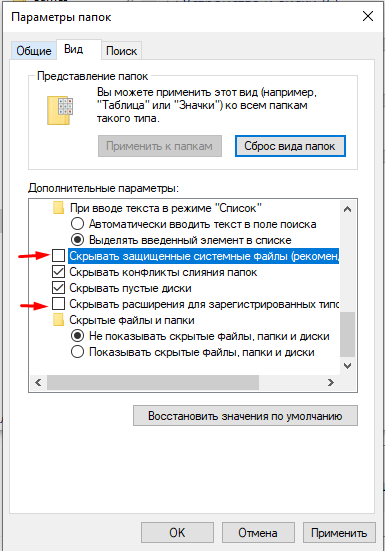
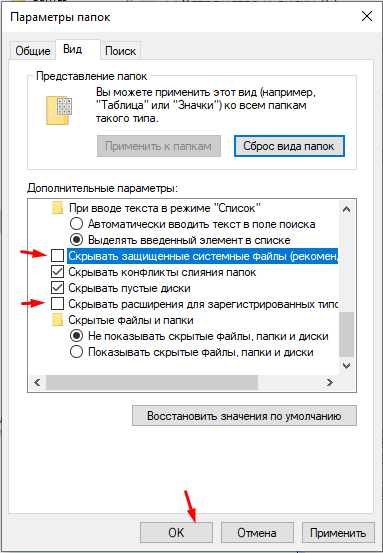
final

diff --git a/_pages/file-extensions-windows.md b/_pages/file-extensions-windows.md
@@ -14,6 +14,7 @@ author_profile: true
 1. Запустите **Проводник**, открыв любую папку, например папку вашей SD-карты
 1. Нажмите кнопку "**Вид**" в меню 
 1. Установите флажок "**Расширения имен файлов**"
+    * Для windows 7: Откройте меню **Пуск**, нажав на него, или с помощью клавиши **Windows**, введите в поле для поиска "**Параметры папок**" и выберите соответствующий результат
 
     ![]({{ "/images/screenshots/windows-10-file-extensions.png" | absolute_url }}){:target="_blank"}
 	{: .text-center}
@@ -27,19 +28,5 @@ author_profile: true
     ![]({{ "/images/screenshots/windows-7-folder-options.png" | absolute_url }}){:target="_blank"}
 	{: .text-center}
     {: .notice--info}
-
-## Windows 7
-
-1. Откройте меню **Пуск**, нажав на него, или с помощью клавиши **Windows**
-1. Введите в поле для поиска "**Параметры папок**" и выберите соответствующий результат
-
-    ![]({{ "/images/screenshots/windows-7-folder-options-start-menu.png" | absolute_url }}){:target="_blank"}
-	{: .text-center}
-    {: .notice--info}
-
-1. Нажмите на вкладку "**Вид**" в верхней части окна Параметры папок
-1. Снимите флажок "**Скрывать расширения для зарегистрированных типов файлов**"
-
-    ![]({{ "/images/screenshots/windows-7-folder-options.png" | absolute_url }}){:target="_blank"}
-	{: .text-center}
-    {: .notice--info}
+    
+1. Нажмите "**OK**", чтобы сохранить изменения
